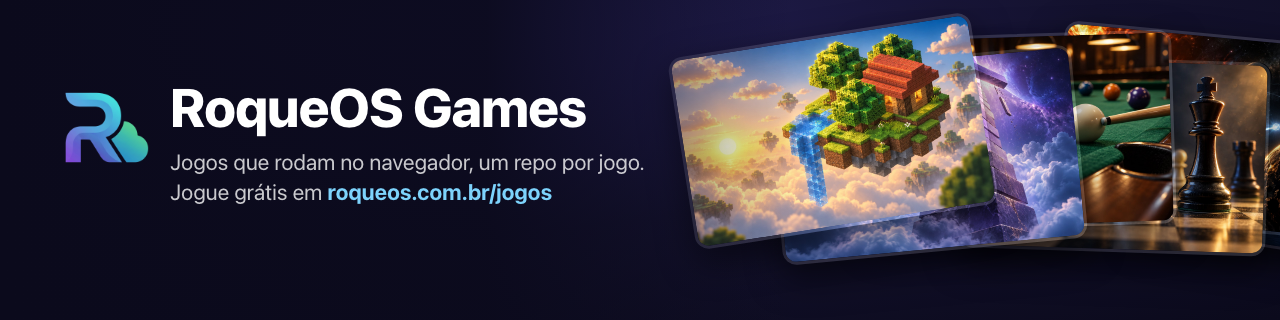
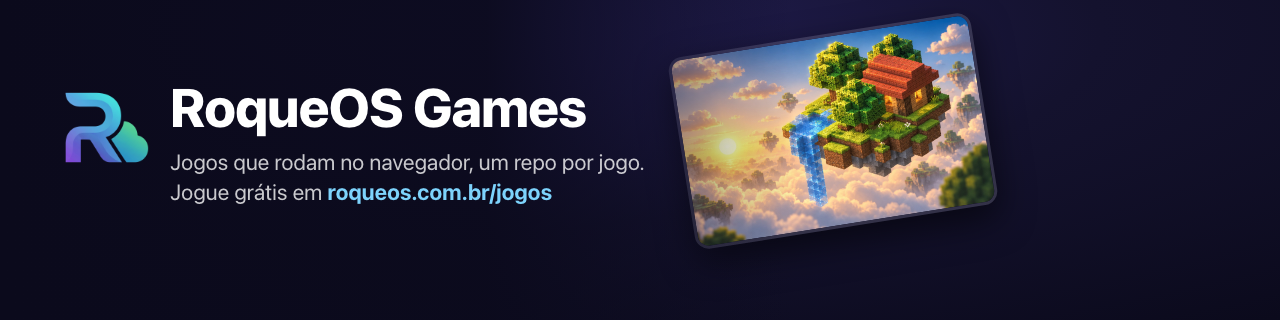
docs(org): a página mostra só os repos que seguem abertos (Goal 80)
Em 16/10/2026 o fundador fechou quinze jogos da organização para poderem
usar modelos 3D de mercado. A página lista o RoqueCraft e o jogo-sdk; o
texto diz por que os outros saíram e que o publicado sob MIT continua MIT.

Claude-Session: https://claude.ai/code/session_018rktaVVDE1FgfAmZ9uUbAC

Changed region(s): [[0.5938, 0.0625, 1.0, 0.8438]]

diff --git a/profile/README.md b/profile/README.md
@@ -4,8 +4,9 @@
 
 Os jogos do [RoqueOS](https://roqueos.com.br), o sistema operacional que roda inteiro no
 navegador. Cada jogo mora no próprio repositório, fala com o sistema só pelo
-[`jogo-sdk`](https://github.com/roqueos-games/jogo-sdk) e tem o código aberto sob MIT. Todos
-rodam de graça em [roqueos.com.br/jogos](https://roqueos.com.br/jogos), no computador, no
+[`jogo-sdk`](https://github.com/roqueos-games/jogo-sdk). O SDK e o RoqueCraft têm o código
+aberto sob MIT; os outros jogos são fechados desde 16/10/2026, para poderem usar modelos 3D de
+mercado cuja licença não permite repositório aberto, e ficam fora desta lista. Todos rodam de graça em [roqueos.com.br/jogos](https://roqueos.com.br/jogos), no computador, no
 celular e na TV.
 
 _English below._
@@ -17,36 +18,6 @@ _English below._
 |                                                                                                                                      | Jogo                                                          | O que é                                                                                               |                                                  |
 | :----------------------------------------------------------------------------------------------------------------------------------: | ------------------------------------------------------------- | ----------------------------------------------------------------------------------------------------- | :----------------------------------------------: |
 | <img src="https://raw.githubusercontent.com/roqueos-games/.github/main/profile/icones/roquecraft.png" width="40" height="40" alt=""> | [**RoqueCraft**](https://github.com/roqueos-games/roquecraft) | Mundo de blocos infinito: explore biomas, minere, construa e sobreviva, sozinho ou online com amigos. | [Jogar](https://roqueos.com.br/jogar/roquecraft) |
-
-### Tabuleiro e mesa
-
-|                                                                                                                                            | Jogo                                                              | O que é                                                                               |                                                        |
-| :----------------------------------------------------------------------------------------------------------------------------------------: | ----------------------------------------------------------------- | ------------------------------------------------------------------------------------- | :----------------------------------------------------: |
-|      <img src="https://raw.githubusercontent.com/roqueos-games/.github/main/profile/icones/xadrez.png" width="40" height="40" alt="">      | [**Xadrez**](https://github.com/roqueos-games/xadrez)             | Xadrez completo, jogue online por QR/código ou local no mesmo aparelho.               |      [Jogar](https://roqueos.com.br/jogar/xadrez)      |
-|      <img src="https://raw.githubusercontent.com/roqueos-games/.github/main/profile/icones/damas.png" width="40" height="40" alt="">       | [**Damas**](https://github.com/roqueos-games/damas)               | Damas brasileiras, captura obrigatória e dama voadora, online por QR/código ou local. |      [Jogar](https://roqueos.com.br/jogar/damas)       |
-| <img src="https://raw.githubusercontent.com/roqueos-games/.github/main/profile/icones/jogo-da-velha-3d.png" width="40" height="40" alt=""> | [**Velha 3D**](https://github.com/roqueos-games/jogo-da-velha-3d) | Jogo da velha em 3D num cubo 4×4×4 contra a IA, alinhe 4 em qualquer direção.         | [Jogar](https://roqueos.com.br/jogar/jogo-da-velha-3d) |
-|      <img src="https://raw.githubusercontent.com/roqueos-games/.github/main/profile/icones/sinuca.png" width="40" height="40" alt="">      | [**Sinuca**](https://github.com/roqueos-games/sinuca)             | Sinuca 8-ball em 3D num bar, física real, contra a IA (com níveis) ou local.          |      [Jogar](https://roqueos.com.br/jogar/sinuca)      |
-
-### Arcade 3D
-
-|                                                                                                                                    | Jogo                                                      | O que é                                                                                  |                                                |
-| :--------------------------------------------------------------------------------------------------------------------------------: | --------------------------------------------------------- | ---------------------------------------------------------------------------------------- | :--------------------------------------------: |
-| <img src="https://raw.githubusercontent.com/roqueos-games/.github/main/profile/icones/skystack.png" width="40" height="40" alt=""> | [**SkyStack**](https://github.com/roqueos-games/skystack) | Jogo de empilhar blocos 3D: suba até o espaço, e cada erro deixa a torre mais fina.      | [Jogar](https://roqueos.com.br/jogar/skystack) |
-|  <img src="https://raw.githubusercontent.com/roqueos-games/.github/main/profile/icones/prisma.png" width="40" height="40" alt="">  | [**PRISMA**](https://github.com/roqueos-games/prisma)     | Encaixe peças no poço de 10 por 20 células com visual 3D e complete linhas para pontuar. |  [Jogar](https://roqueos.com.br/jogar/prisma)  |
-|   <img src="https://raw.githubusercontent.com/roqueos-games/.github/main/profile/icones/tora.png" width="40" height="40" alt="">   | [**TORA**](https://github.com/roqueos-games/tora)         | Encaixe blocos de madeira 3D e complete fileiras para limpá-las e passar de nível.       |   [Jogar](https://roqueos.com.br/jogar/tora)   |
-|   <img src="https://raw.githubusercontent.com/roqueos-games/.github/main/profile/icones/nova.png" width="40" height="40" alt="">   | [**NOVA**](https://github.com/roqueos-games/nova)         | Salte de órbita em órbita e fuja da supernova que vem atrás, com física de verdade.      |   [Jogar](https://roqueos.com.br/jogar/nova)   |
-|   <img src="https://raw.githubusercontent.com/roqueos-games/.github/main/profile/icones/eko.png" width="40" height="40" alt="">    | [**EKO**](https://github.com/roqueos-games/eko)           | Plane por uma caverna escura onde só o eco revela as paredes.                            |   [Jogar](https://roqueos.com.br/jogar/eko)    |
-|  <img src="https://raw.githubusercontent.com/roqueos-games/.github/main/profile/icones/lumen.png" width="40" height="40" alt="">   | [**LUMEN**](https://github.com/roqueos-games/lumen)       | Guie um enxame de luzes vivas com flocking real e fuja das sombras.                      |  [Jogar](https://roqueos.com.br/jogar/lumen)   |
-|  <img src="https://raw.githubusercontent.com/roqueos-games/.github/main/profile/icones/snake.png" width="40" height="40" alt="">   | [**Snake**](https://github.com/roqueos-games/snake)       | Cresça a cobra neon comendo, sem bater nas paredes ou na cauda.                          |  [Jogar](https://roqueos.com.br/jogar/snake)   |
-
-### Clássicos 2D
-
-|                                                                                                                                           | Jogo                                                            | O que é                                                                                                 |                                                       |
-| :---------------------------------------------------------------------------------------------------------------------------------------: | --------------------------------------------------------------- | ------------------------------------------------------------------------------------------------------- | :---------------------------------------------------: |
-|      <img src="https://raw.githubusercontent.com/roqueos-games/.github/main/profile/icones/2048.png" width="40" height="40" alt="">       | [**2048**](https://github.com/roqueos-games/2048)               | Deslize as peças, junte os números iguais e chegue à peça 2048.                                         |      [Jogar](https://roqueos.com.br/jogar/2048)       |
-|    <img src="https://raw.githubusercontent.com/roqueos-games/.github/main/profile/icones/breakout.png" width="40" height="40" alt="">     | [**Breakout**](https://github.com/roqueos-games/breakout)       | Rebata a bola, quebre todos os tijolos, faça combos e pegue power-ups.                                  |    [Jogar](https://roqueos.com.br/jogar/breakout)     |
-| <img src="https://raw.githubusercontent.com/roqueos-games/.github/main/profile/icones/jogo-da-memoria.png" width="40" height="40" alt=""> | [**Memória**](https://github.com/roqueos-games/jogo-da-memoria) | Vire as cartas e encontre todos os pares no menor número de jogadas.                                    | [Jogar](https://roqueos.com.br/jogar/jogo-da-memoria) |
-|      <img src="https://raw.githubusercontent.com/roqueos-games/.github/main/profile/icones/nexo.png" width="40" height="40" alt="">       | [**NEXO**](https://github.com/roqueos-games/nexo)               | Trace uma única linha que liga os números em ordem e preenche todo o grid, puzzle procedural com fases. |      [Jogar](https://roqueos.com.br/jogar/nexo)       |
 
 ## Como um jogo fala com o RoqueOS
 
@@ -69,8 +40,8 @@ flowchart LR
 Precisa de Node 22 ou mais novo e do Yarn 1.22.
 
 ```sh
-git clone https://github.com/roqueos-games/2048.git
-cd 2048
+git clone https://github.com/roqueos-games/roquecraft.git
+cd roquecraft
 yarn install --ignore-scripts
 yarn dev
 ```
@@ -92,9 +63,9 @@ request.
 
 ## Licença
 
-Código e arte própria sob MIT. Asset de terceiro segue a licença registrada no `ASSETS.md` de
-cada repo. O RoqueOS em si é fechado, e alguns jogos dele também são; esses ficam fora desta
-lista.
+Código e arte própria dos repos abertos sob MIT. Asset de terceiro segue a licença registrada
+no `ASSETS.md` de cada repo. O RoqueOS em si é fechado, e os jogos fechados ficam fora desta
+lista; o que eles publicaram sob MIT até 16/10/2026 continua MIT.
 
 ---
 
@@ -102,8 +73,9 @@ lista.
 
 The games of [RoqueOS](https://roqueos.com.br), an operating system that runs entirely in the
 browser. Each game lives in its own repository, talks to the system only through the
-[`jogo-sdk`](https://github.com/roqueos-games/jogo-sdk) and is open source under MIT. All of
-them are free to play at [roqueos.com.br/jogos](https://roqueos.com.br/jogos), on desktop,
+[`jogo-sdk`](https://github.com/roqueos-games/jogo-sdk). The SDK and RoqueCraft are open
+source under MIT; the other games are closed since 16/10/2026, so they can use third-party 3D
+models whose license does not allow a public repository. All of them are free to play at [roqueos.com.br/jogos](https://roqueos.com.br/jogos), on desktop,
 phone and TV.
 
 <details>
@@ -114,36 +86,6 @@ phone and TV.
 |                                                                                                                                      | Game                                                          | What it is                                                                                  |                                                 |
 | :----------------------------------------------------------------------------------------------------------------------------------: | ------------------------------------------------------------- | ------------------------------------------------------------------------------------------- | :---------------------------------------------: |
 | <img src="https://raw.githubusercontent.com/roqueos-games/.github/main/profile/icones/roquecraft.png" width="40" height="40" alt=""> | [**RoqueCraft**](https://github.com/roqueos-games/roquecraft) | Infinite block world: explore biomes, mine, build and survive, solo or online with friends. | [Play](https://roqueos.com.br/jogar/roquecraft) |
-
-### Board and table
-
-|                                                                                                                                            | Game                                                                    | What it is                                                                          |                                                       |
-| :----------------------------------------------------------------------------------------------------------------------------------------: | ----------------------------------------------------------------------- | ----------------------------------------------------------------------------------- | :---------------------------------------------------: |
-|      <img src="https://raw.githubusercontent.com/roqueos-games/.github/main/profile/icones/xadrez.png" width="40" height="40" alt="">      | [**Chess**](https://github.com/roqueos-games/xadrez)                    | Full chess, play online by QR/code or locally on one device.                        |      [Play](https://roqueos.com.br/jogar/xadrez)      |
-|      <img src="https://raw.githubusercontent.com/roqueos-games/.github/main/profile/icones/damas.png" width="40" height="40" alt="">       | [**Checkers**](https://github.com/roqueos-games/damas)                  | Brazilian draughts, mandatory capture and flying kings, online by QR/code or local. |      [Play](https://roqueos.com.br/jogar/damas)       |
-| <img src="https://raw.githubusercontent.com/roqueos-games/.github/main/profile/icones/jogo-da-velha-3d.png" width="40" height="40" alt=""> | [**3D Tic-Tac-Toe**](https://github.com/roqueos-games/jogo-da-velha-3d) | 3D tic-tac-toe on a 4×4×4 cube against the AI, line up four in any direction.       | [Play](https://roqueos.com.br/jogar/jogo-da-velha-3d) |
-|      <img src="https://raw.githubusercontent.com/roqueos-games/.github/main/profile/icones/sinuca.png" width="40" height="40" alt="">      | [**8-Ball Pool**](https://github.com/roqueos-games/sinuca)              | 3D 8-ball pool in a bar, real physics, vs the AI (with levels) or local.            |      [Play](https://roqueos.com.br/jogar/sinuca)      |
-
-### 3D arcade
-
-|                                                                                                                                    | Game                                                      | What it is                                                                  |                                               |
-| :--------------------------------------------------------------------------------------------------------------------------------: | --------------------------------------------------------- | --------------------------------------------------------------------------- | :-------------------------------------------: |
-| <img src="https://raw.githubusercontent.com/roqueos-games/.github/main/profile/icones/skystack.png" width="40" height="40" alt=""> | [**SkyStack**](https://github.com/roqueos-games/skystack) | 3D block-stacking game, climb all the way to space.                         | [Play](https://roqueos.com.br/jogar/skystack) |
-|  <img src="https://raw.githubusercontent.com/roqueos-games/.github/main/profile/icones/prisma.png" width="40" height="40" alt="">  | [**PRISMA**](https://github.com/roqueos-games/prisma)     | Fit pieces in a 10 by 20 cell well rendered in 3D and clear lines to score. |  [Play](https://roqueos.com.br/jogar/prisma)  |
-|   <img src="https://raw.githubusercontent.com/roqueos-games/.github/main/profile/icones/tora.png" width="40" height="40" alt="">   | [**TORA**](https://github.com/roqueos-games/tora)         | Fit 3D wooden blocks and complete lines to clear them and level up.         |   [Play](https://roqueos.com.br/jogar/tora)   |
-|   <img src="https://raw.githubusercontent.com/roqueos-games/.github/main/profile/icones/nova.png" width="40" height="40" alt="">   | [**NOVA**](https://github.com/roqueos-games/nova)         | Slingshot from orbit to orbit and outrun the supernova.                     |   [Play](https://roqueos.com.br/jogar/nova)   |
-|   <img src="https://raw.githubusercontent.com/roqueos-games/.github/main/profile/icones/eko.png" width="40" height="40" alt="">    | [**EKO**](https://github.com/roqueos-games/eko)           | Glide through a pitch-black cave where only echoes reveal the walls.        |   [Play](https://roqueos.com.br/jogar/eko)    |
-|  <img src="https://raw.githubusercontent.com/roqueos-games/.github/main/profile/icones/lumen.png" width="40" height="40" alt="">   | [**LUMEN**](https://github.com/roqueos-games/lumen)       | Steer a living swarm of lights with real flocking and outrun the shadows.   |  [Play](https://roqueos.com.br/jogar/lumen)   |
-|  <img src="https://raw.githubusercontent.com/roqueos-games/.github/main/profile/icones/snake.png" width="40" height="40" alt="">   | [**Snake**](https://github.com/roqueos-games/snake)       | Grow the neon snake by eating, don't hit the walls or your tail.            |  [Play](https://roqueos.com.br/jogar/snake)   |
-
-### 2D classics
-
-|                                                                                                                                           | Game                                                           | What it is                                                                                               |                                                      |
-| :---------------------------------------------------------------------------------------------------------------------------------------: | -------------------------------------------------------------- | -------------------------------------------------------------------------------------------------------- | :--------------------------------------------------: |
-|      <img src="https://raw.githubusercontent.com/roqueos-games/.github/main/profile/icones/2048.png" width="40" height="40" alt="">       | [**2048**](https://github.com/roqueos-games/2048)              | Slide the tiles, merge matching numbers and reach the 2048 tile.                                         |      [Play](https://roqueos.com.br/jogar/2048)       |
-|    <img src="https://raw.githubusercontent.com/roqueos-games/.github/main/profile/icones/breakout.png" width="40" height="40" alt="">     | [**Breakout**](https://github.com/roqueos-games/breakout)      | Bounce the ball, smash every brick, chain combos and grab power-ups.                                     |    [Play](https://roqueos.com.br/jogar/breakout)     |
-| <img src="https://raw.githubusercontent.com/roqueos-games/.github/main/profile/icones/jogo-da-memoria.png" width="40" height="40" alt=""> | [**Memory**](https://github.com/roqueos-games/jogo-da-memoria) | Flip the cards and match every pair in as few moves as possible.                                         | [Play](https://roqueos.com.br/jogar/jogo-da-memoria) |
-|      <img src="https://raw.githubusercontent.com/roqueos-games/.github/main/profile/icones/nexo.png" width="40" height="40" alt="">       | [**NEXO**](https://github.com/roqueos-games/nexo)              | Draw one line that links the numbers in order and fills the whole grid, a procedural puzzle with phases. |      [Play](https://roqueos.com.br/jogar/nexo)       |
 
 </details>
 
@@ -158,4 +100,4 @@ Portuguese. Questions and ideas go to
 [Discussions](https://github.com/orgs/roqueos-games/discussions); vulnerabilities go through
 [SECURITY.md](https://github.com/roqueos-games/.github/blob/main/SECURITY.md), never a public
 issue. Code and original art are MIT; third-party assets follow the license listed in each
-repo's `ASSETS.md`.
+repo's `ASSETS.md`. Closed games are not listed here.

diff --git a/scripts/readme.modelo.md b/scripts/readme.modelo.md
@@ -4,8 +4,9 @@
 
 Os jogos do [RoqueOS](https://roqueos.com.br), o sistema operacional que roda inteiro no
 navegador. Cada jogo mora no próprio repositório, fala com o sistema só pelo
-[`jogo-sdk`](https://github.com/roqueos-games/jogo-sdk) e tem o código aberto sob MIT. Todos
-rodam de graça em [roqueos.com.br/jogos](https://roqueos.com.br/jogos), no computador, no
+[`jogo-sdk`](https://github.com/roqueos-games/jogo-sdk). O SDK e o RoqueCraft têm o código
+aberto sob MIT; os outros jogos são fechados desde 16/10/2026, para poderem usar modelos 3D de
+mercado cuja licença não permite repositório aberto, e ficam fora desta lista. Todos rodam de graça em [roqueos.com.br/jogos](https://roqueos.com.br/jogos), no computador, no
 celular e na TV.
 
 _English below._
@@ -35,8 +36,8 @@ flowchart LR
 Precisa de Node 22 ou mais novo e do Yarn 1.22.
 
 ```sh
-git clone https://github.com/roqueos-games/2048.git
-cd 2048
+git clone https://github.com/roqueos-games/roquecraft.git
+cd roquecraft
 yarn install --ignore-scripts
 yarn dev
 ```
@@ -58,9 +59,9 @@ request.
 
 ## Licença
 
-Código e arte própria sob MIT. Asset de terceiro segue a licença registrada no `ASSETS.md` de
-cada repo. O RoqueOS em si é fechado, e alguns jogos dele também são; esses ficam fora desta
-lista.
+Código e arte própria dos repos abertos sob MIT. Asset de terceiro segue a licença registrada
+no `ASSETS.md` de cada repo. O RoqueOS em si é fechado, e os jogos fechados ficam fora desta
+lista; o que eles publicaram sob MIT até 16/10/2026 continua MIT.
 
 ---
 
@@ -68,8 +69,9 @@ lista.
 
 The games of [RoqueOS](https://roqueos.com.br), an operating system that runs entirely in the
 browser. Each game lives in its own repository, talks to the system only through the
-[`jogo-sdk`](https://github.com/roqueos-games/jogo-sdk) and is open source under MIT. All of
-them are free to play at [roqueos.com.br/jogos](https://roqueos.com.br/jogos), on desktop,
+[`jogo-sdk`](https://github.com/roqueos-games/jogo-sdk). The SDK and RoqueCraft are open
+source under MIT; the other games are closed since 16/10/2026, so they can use third-party 3D
+models whose license does not allow a public repository. All of them are free to play at [roqueos.com.br/jogos](https://roqueos.com.br/jogos), on desktop,
 phone and TV.
 
 <details>
@@ -90,4 +92,4 @@ Portuguese. Questions and ideas go to
 [Discussions](https://github.com/orgs/roqueos-games/discussions); vulnerabilities go through
 [SECURITY.md](https://github.com/roqueos-games/.github/blob/main/SECURITY.md), never a public
 issue. Code and original art are MIT; third-party assets follow the license listed in each
-repo's `ASSETS.md`.
+repo's `ASSETS.md`. Closed games are not listed here.
